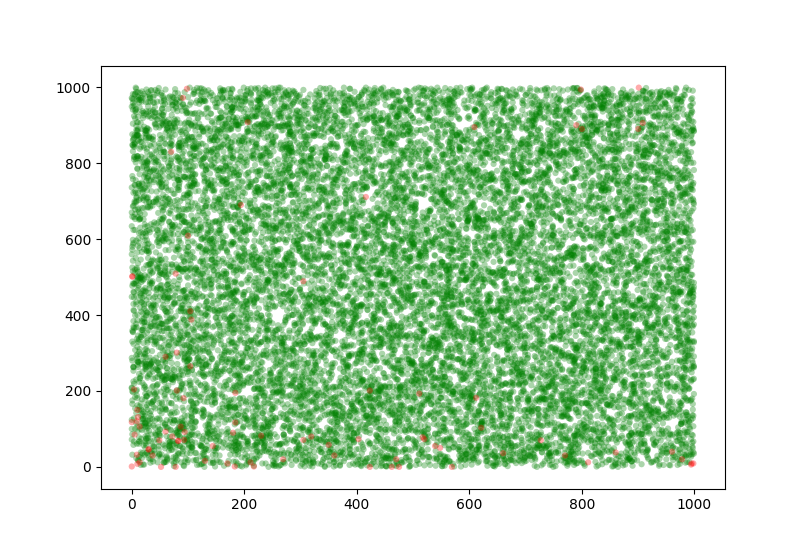
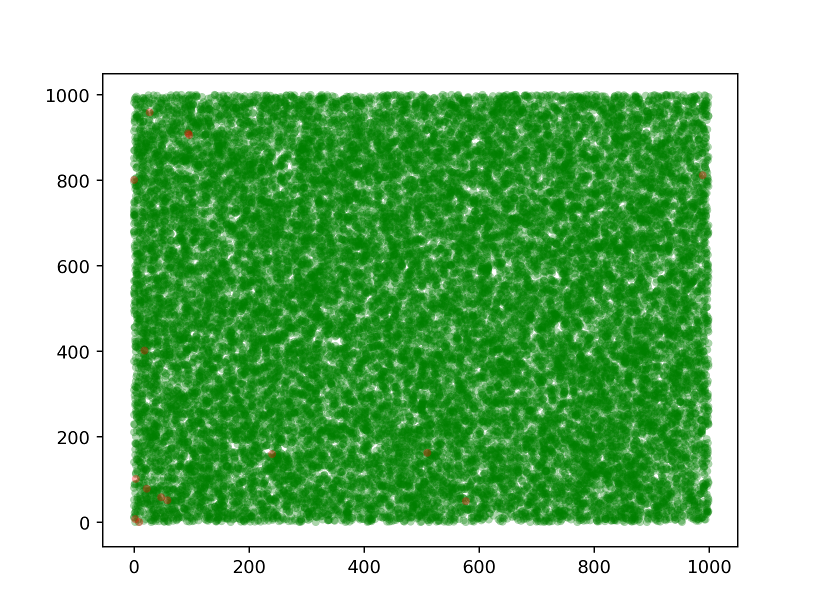
Updated with new model architecture and better training

diff --git a/_posts/2017-08-09-learning-math.md b/_posts/2017-08-09-learning-math.md
@@ -13,7 +13,7 @@ tags: [machine-learning, recurrent-neural-networks, keras]
 disqus: true
 ---
 
-**Updated 12 SEPT 2017:** Improved the training procedure and rewrote parts of post
+**Updated 8 DEC 2017:** Improved the model and rewrote some parts
 
 
 Since ancient times, it has been known that machines excel at math while humans
@@ -67,6 +67,16 @@ decoder also based on RNNs learns to decode it to another language, generating
 a new sequence from the encoding as output.
 
 
+### Bidirectional RNNs
+
+It turns out RNNs work much better if we let them look into the future as well.
+For this purpose, so-called bi-directional RNNs were invented. Each bi-directional
+RNN consists of two RNNs: One that looks at the sequence from start
+to end, and one that looks at it in reverse. At each part of the sequence we thus
+have information about what came before and what will come after.
+That way, a RNNs can better learn about the context of each segment.
+
+
 ### The Setup
 
 For most problems, data is hard to come by. Labeled data even more so. But math
@@ -77,8 +87,8 @@ a lot of equations along with their results and train a Seq2Seq model on it.
 
 For example, a typical datapoint for addition could look like this:
 ```
-input = '31 + 87'
-output = '118'
+input: '31 + 87'
+output: '118'
 ```
 
 Since we're learning on just a fraction of all possible formulas, the model
@@ -120,7 +130,7 @@ it's up to you.
 ### Generating Math Formulas as Strings
 
 For now, let's build some equations! We're going to go real simple here and
-just work with easy-peasy addition of two small natural numbers. Once we get
+just work with easy-peasy addition of two natural numbers. Once we get
 that to work, we can build more funky stuff later on. See the
 [full code](https://github.com/cpury/lstm-math) to find out how to build more
 complex equations.
@@ -308,19 +318,20 @@ first layer consisting of 256 LSTM cells. Each will look at the input,
 character by character, and output a single value. We also add some light
 dropout for regularization.
 
-Now, ideally we'd use the activation of each LSTM for each of the sequence
+Now, ideally we'd use the activation of each LSTM on each of the sequence
 items and then use them as inputs to our decoder. It seems Keras is having
 a hard time with this, so the accepted workaround is to let the LSTM cells
-output single values each, and then repeat these vectors using `RepeatVector`
-to feed the decoder network. There's an issue on Keras discussing this
+output single values each after going through the whole input, and then repeat
+these vectors using `RepeatVector` to feed the decoder network. There's an
+issue on Keras discussing this
 [here](https://github.com/fchollet/keras/issues/5203).
 
 So after we repeat the encoded vector `n` times with `n` being the (maximum)
 length of our output sequences, we run this repeat-sequence through the
-decoder: An LSTM layer that will output sequences of vectors. Finally, we want
-to combine each LSTM cell's output at each point in the sequence to a single
-output vector. This is done using Keras' `TimeDistributed` wrapper around a
-simple `Dense` layer.
+decoder: A (bidirectional) LSTM layer that will output sequences of vectors.
+Finally, we want to combine each LSTM cell's output at each point in the
+sequence to a single output vector. This is done using Keras' `TimeDistributed`
+wrapper around a simple `Dense` layer.
 
 Since we expect something like a one-hot vector for each output character,
 we still need to apply `softmax` as usual in classification problems. This
@@ -335,8 +346,10 @@ Either way, here is our code:
 
 {% highlight python %}
 from keras.models import Sequential
-from keras.layers import LSTM, RepeatVector, Dense, Dropout, Activation
-from keras.layers.wrappers import TimeDistributed
+from keras.layers import LSTM, RepeatVector, Dense, Activation
+from keras.layers.wrappers import TimeDistributed, Bidirectional
+from keras.layers.normalization import BatchNormalization
+from keras.optimizers import Adam
 
 def build_model():
     """
@@ -347,22 +360,22 @@ def build_model():
     model = Sequential()
 
     # Encoder:
-    model.add(LSTM(256, input_shape=input_shape))
-    model.add(Dropout(0.25))
+    model.add(Bidirectional(LSTM(20), input_shape=input_shape))
+    model.add(BatchNormalization())
 
     # The RepeatVector-layer repeats the input n times
     model.add(RepeatVector(MAX_RESULT_LENGTH))
 
     # Decoder:
-    model.add(LSTM(256, return_sequences=True))
-    model.add(Dropout(0.25))
+    model.add(Bidirectional(LSTM(20, return_sequences=True)))
+    model.add(BatchNormalization())
 
     model.add(TimeDistributed(Dense(N_FEATURES)))
     model.add(Activation('softmax'))
 
     model.compile(
         loss='categorical_crossentropy',
-        optimizer='adam',
+        optimizer=Adam(lr=0.01),
         metrics=['accuracy'],
     )
 
@@ -378,7 +391,7 @@ epoch. Here's the main function of our code:
 
 {% highlight python %}
 from time import sleep
-from keras.callbacks import EarlyStopping, ModelCheckpoint
+from keras.callbacks import ModelCheckpoint
 
 def main():
     model = build_model()
@@ -399,9 +412,6 @@ def main():
         batch_size=BATCH_SIZE,
         validation_data=(x_test, y_test),
         callbacks=[
-            EarlyStopping(
-                patience=20,
-            ),
             ModelCheckpoint(
                 'model.h5',
                 save_best_only=True,
@@ -420,25 +430,28 @@ if __name__ == '__main__':
 Finally, we need to fill in some of the global variables we used throughout
 the code. With equations using two numbers from 0 to 999, there's 998k possible
 data points.
-Let's use about a sixteenth of that for our data, and a quarter of that for
-testing, meaning we'll train on ~ 50k data points and validate on ~ 14k
-different data points. Here's my config:
+Let's use 30k of those for our dataset, and validate on 10% of that, meaning
+we'll train on about 2.7% of possible equations, and have to generalize to
+the remaining 97.3%. That may sound impressive, but Deep Learning is actually
+used to facing much more dire odds.
+
+Here's my complete config:
 
 {% highlight python %}
 MIN_NUMBER = 0
 MAX_NUMBER = 999
 
 MAX_N_EXAMPLES = (MAX_NUMBER - MIN_NUMBER) ** 2
-N_EXAMPLES = int(round(MAX_N_EXAMPLES / 16.))
+N_EXAMPLES = 30000
 N_FEATURES = len(CHARS)
 MAX_NUMBER_LENGTH_LEFT_SIDE = len(str(MAX_NUMBER))
 MAX_NUMBER_LENGTH_RIGHT_SIDE = MAX_NUMBER_LENGTH_LEFT_SIDE + 1
 MAX_EQUATION_LENGTH = (MAX_NUMBER_LENGTH_LEFT_SIDE * 2) + 4
 MAX_RESULT_LENGTH = MAX_NUMBER_LENGTH_RIGHT_SIDE + 1
 
-SPLIT = .25
-EPOCHS = 100
-BATCH_SIZE = 64
+SPLIT = .1
+EPOCHS = 200
+BATCH_SIZE = 256
 {% endhighlight %}
 
 Finally, we can start training. Either call `main()` from the shell, or store
@@ -448,54 +461,68 @@ everything in a file `training.py` and run it via `python training.py`.
 ### Results
 
 Running the code as it is described here, with some patience I get to a test
-accuracy of `0.999` on the test set after about 60 epochs:
+accuracy of `1.0` on the test set after about 120 epochs. Yes that's right,
+it seems we're making zero mistakes on our test set of 3000 equations.
+Here's a graph showing how accuracy developed during training.
+As you can see, overfitting is not a problem for us. The capacity of the
+network is just way too small to be learning examples by heart.
 
-![Plot showing convergence of loss and accuracy over training time]({{ site.url }}/assets/images/math_figure_5.png)
+![Plot showing convergence of accuracy over training time]({{ site.url }}/assets/images/math_figure_5.png)
 
-That's great, but still not perfect! Did our model not generalize to all areas
-of the problem space?
+That's great, but running it on some more, unseen example equations, the model
+still makes the occasional mistake! Why is that? Did our model not generalize
+to all areas of the problem space?
 
 
 ### Analyzing the Mistakes
 
-Let me preface this by saying that the problems in which Deep Learning really
-shines are all concerned with "natural" data, like speech or images. In these
-fields, a bit of noise can be perfectly acceptable, the same way that humans
-do not achieve a perfect performance in anything (sorry). This is math though,
-and it would be a nice proof of the power of LSTM models if we could learn
-something that requires 100% exactness.
+Let's look at some of the examples where the model failed to give the right
+answer. I tried 20k new equations, and out of those, only 10 were incorrect,
+for example:
 
-So, let's browse some of the examples where the model failed to give a correct
-answer. I see some interesting ones where we get correct representations but
-small errors in the space of numbers, e.g. `800 + 890 = 1689 (expected: 1690)`.
-It seems like the network did not follow the strategy of adding up number by
-number as I (a biased human) expected, but rather goes for a more
-"instinctive" adding up.
+```
+47 + 58   = 115  (should have been 105)
+94 + 909  = 1903 (should have been 1003)
+2 + 7     = 19   (should have been 9)
+989 + 811 = 1890 (should have been 1800)
+22 + 78   =  00  (should have been 100)
+```
 
-Even more interesting are the failures where things seem to have gone
-completely off the hook: `978 + 20 = 008 (expected: 998)`. What happened here?
-It seems that part of the model thought the result should be `1008`, while
-another part thought it should be `998`. It's almost as if each position in
-the output sequence follows its own stubborn logic, not really caring if the
-number as a whole makes any sense. This is probably a weakness of LSTMs with
-these kinds of data and would require some research to solve.
+We notice:
+1. Most, but not all errors are in the space of smaller numbers, i.e. where
+  at least one number is less than 100.
+2. All errors seem to be in one single digit only, while the rest of the digits
+  are correct.
+
+Error #1 is easy to understand: In the lower number range, the rules of
+addition change a little bit (the first digit no longer counts the
+100s). At the same time, this problematic space has seen less training examples
+than the easier parts. In the whole equation space, there are ~800k
+points where both numbers have three digits, and only about 80 where both numbers
+are below 10.
+
+Number two is a bit harder to follow. It seems to be an utterly un-human thing
+to do. A human would make mistakes in the space of numbers, not in the space of strings.
+It's perfectly alright to get the last digit wrong, but to report "1903" instead of
+"1003" is unacceptable! What happened?
+
+In the case of "1903" vs "1003", it looks like part of the decoder thought the result would be above 1003,
+so correctly spit out a "1", while the next output thought "Nope, definitely below 1000"
+and output a "9" as in nine-hundred-something. Does each position in
+the output sequence follow its own stubborn logic, not really caring if the number as a whole makes any
+sense? This could probably be improved by using a better vector representation
+or coming up with a better loss function. Or it might be a general weakness in this
+kind of Seq2Seq model.
 
 Anyway, since our input space has only two factors of variation (the two
 numbers that go into building the equation), we can plot the equation space in
-a 2D pane. So I went ahead and created a scatter plot with green dots marking
+a 2D pane. I went ahead and created a scatter plot with green dots marking
 correct predictions and red dots marking incorrect ones. Find the code for that
 [here](https://github.com/cpury/lstm-math/blob/master/plot.py).
 
 ![Scatter plot of errors in problem space]({{ site.url }}/assets/images/math_figure_4.png)
 
-It seems errors appear mostly in the lower bounds, where one of the numbers is
-below 100 or even below 10. Here, the rules of adding up numbers change a little
-bit (the first digit no longer counts the 100s). To increase the trouble, this
-problematic space has less training examples than the easier parts.
-
-We might solve this problem by introducing sample weights or reversing the
-strings (so that the order of digits in numbers is more deterministic). I'll
-leave it up to you to work on this!
+The red dots are hard to see, but they are there!
 
 
 ### Further Experiments
@@ -503,8 +530,7 @@ leave it up to you to work on this!
 There's lots to do! You can get creative about getting over this lower-number
 problem. We can also increase the complexity of the equations. I was able to get
 quite far on ones as complex as `131 + 83 - 744 * 33 (= -24338)`, but haven't
-really gotten it to work with division. But that's probably just a matter of
-tweaking the model or the training process.
+really gotten it to work with division.
 
 Feel free to pass on hints, ideas for improvement, or your own results in the
 comments or as issues on my [repository](https://github.com/cpury/lstm-math).
